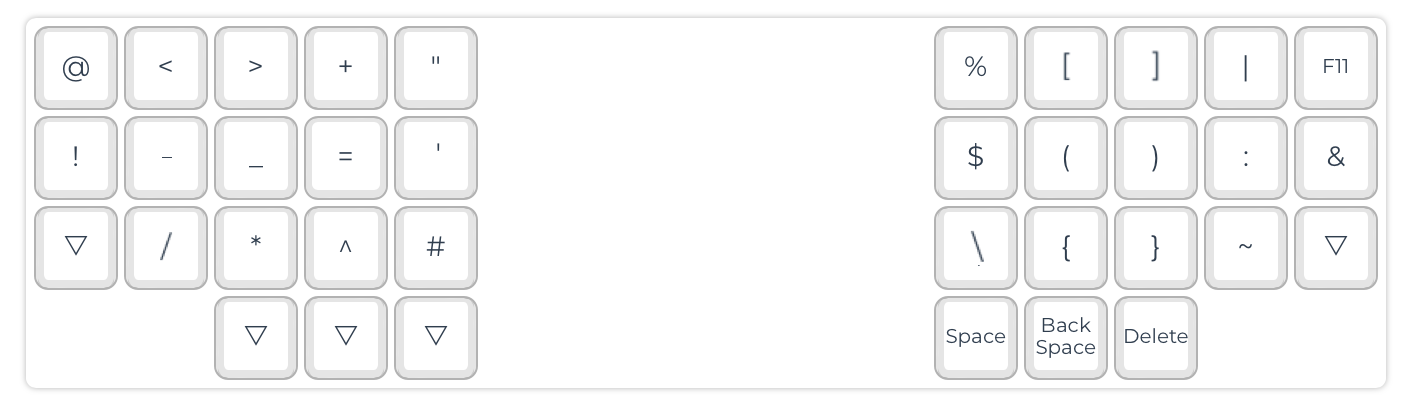
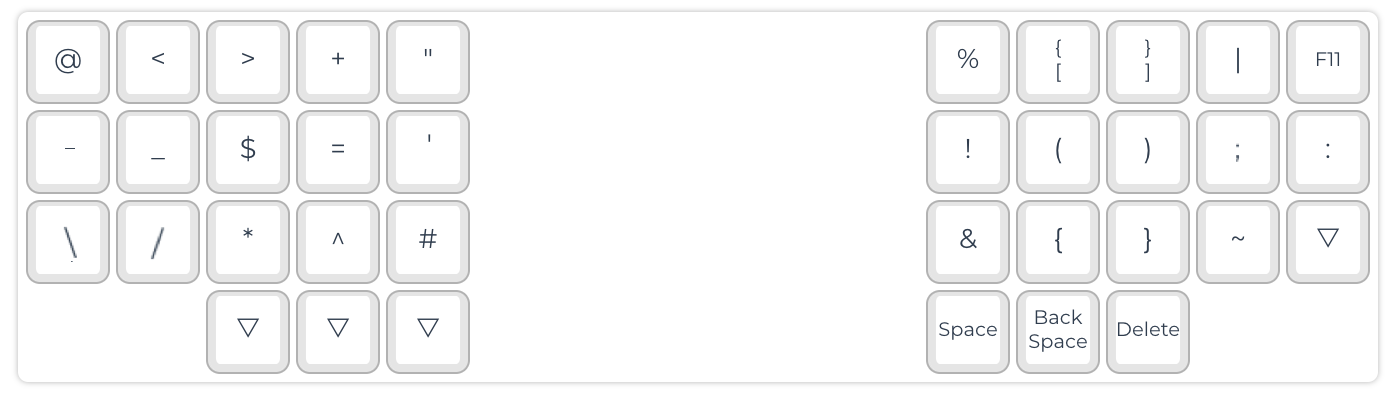
Remapping.

diff --git a/custom_config.h b/custom_config.h
@@ -6,7 +6,7 @@
 #pragma once
 
 #define MIRYOKU_LAYER_MOUSE \
-KC_AT,             KC_LABK,           KC_RABK,           KC_PLUS,           KC_DQUO,           KC_PERC,           KC_LBRC,               KC_RBRC,               KC_PIPE,           KC_F11,             \
-KC_EXLM,           KC_MINS,           KC_UNDS,           KC_EQL,            KC_QUOT,           KC_DLR,            KC_LPRN,               KC_RPRN,               KC_COLN,           KC_AMPR,            \
-U_NA,              KC_SLSH,           KC_ASTR,           KC_CIRC,           KC_HASH,           KC_BSLS,           KC_LCBR,               KC_RCBR,               KC_TILD,           U_NA,               \
-U_NP,              U_NP,              U_NA,              U_NA,              U_NA,              KC_SPC,            KC_BSPC,               KC_DEL,                U_NP,              U_NP
+KC_AT,             KC_LABK,           KC_RABK,           KC_PLUS,           KC_DQUO,            KC_PERC,           KC_LBRC,               KC_RBRC,               KC_PIPE,           KC_F11,             \
+KC_MINS,           KC_UNDS,           KC_DLR,            KC_EQL,            KC_QUOT,            KC_EXLM,           KC_LPRN,               KC_RPRN,               KC_SCLN,           KC_COLN,            \
+KC_BSLS,           KC_SLSH,           KC_ASTR,           KC_CIRC,           KC_HASH,            KC_AMPR,           KC_LCBR,               KC_RCBR,               KC_TILD,           U_NA,               \
+U_NP,              U_NP,              U_NA,              U_NA,              U_NA,               KC_SPC,            KC_BSPC,               KC_DEL,                U_NP,              U_NP

diff --git a/README.md b/README.md
@@ -12,10 +12,10 @@ until the compiling step.
 #pragma once
 
 #define MIRYOKU_LAYER_MOUSE \
-KC_AT,             KC_LABK,           KC_RABK,           KC_PLUS,           KC_DQUO,           KC_PERC,           KC_LBRC,               KC_RBRC,               KC_PIPE,           KC_F11,             \
-KC_EXLM,           KC_MINS,           KC_UNDS,           KC_EQL,            KC_QUOT,           KC_DLR,            KC_LPRN,               KC_RPRN,               KC_COLN,           KC_AMPR,            \
-U_NA,              KC_SLSH,           KC_ASTR,           KC_CIRC,           KC_HASH,           KC_BSLS,           KC_LCBR,               KC_RCBR,               KC_TILD,           U_NA,               \
-U_NP,              U_NP,              U_NA,              U_NA,              U_NA,              KC_SPC,            KC_BSPC,               KC_DEL,                U_NP,              U_NP
+KC_AT,             KC_LABK,           KC_RABK,           KC_PLUS,           KC_DQUO,            KC_PERC,           KC_LBRC,               KC_RBRC,               KC_PIPE,           KC_F11,             \
+KC_MINS,           KC_UNDS,           KC_DLR,            KC_EQL,            KC_QUOT,            KC_EXLM,           KC_LPRN,               KC_RPRN,               KC_SCLN,           KC_COLN,            \
+KC_BSLS,           KC_SLSH,           KC_ASTR,           KC_CIRC,           KC_HASH,            KC_AMPR,           KC_LCBR,               KC_RCBR,               KC_TILD,           U_NA,               \
+U_NP,              U_NP,              U_NA,              U_NA,              U_NA,               KC_SPC,            KC_BSPC,               KC_DEL,                U_NP,              U_NP
 ```
 
 * Compile
